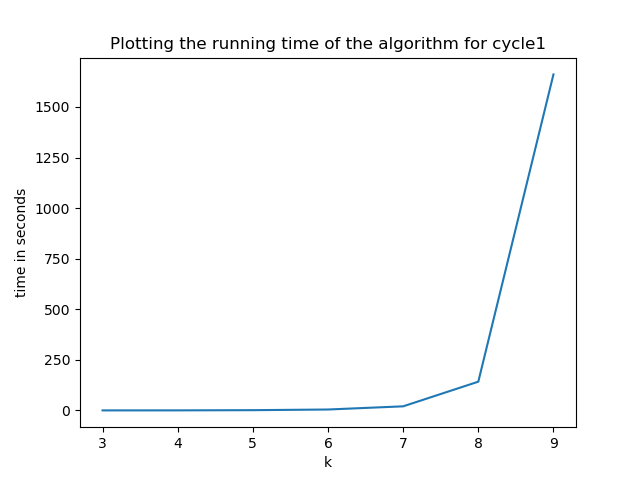
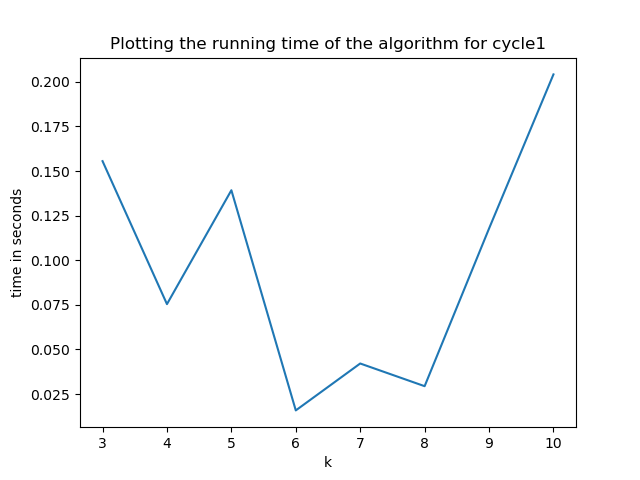
added severel plots of tests for different algorithms on graphs from the real world (yeast) and on random graphs. also added early return to cycle1 algo

diff --git a/test_random_graph_all.py b/test_random_graph_all.py
@@ -21,63 +21,62 @@ def main():
 
     n = int(sys.argv[3])
     p = eval(sys.argv[4]) if len(sys.argv) >= 5 else 1 / 2
-    G = nx.gnp_random_graph(n, p)
+    G = [nx.gnp_random_graph(n, p) for _ in range(10)]
     
     k_begin = int(sys.argv[1])
     k_end = int(sys.argv[2])
 
+    types = ["random_orientations_cycle", "cycle1", "cycle2", "cycle1_derandomized", "cycle2_derandomized", "path", "random_orientations_path", "path_derandomized"]
+    get_func = {"path" : path.find_path, "cycle1" : cycle_first_algo.find_cycle, "cycle2" : cycle_second_algo.find_cycle, "random_orientations_path" : random_orientations_path.find_path_random_orientation, "random_orientations_cycle" : random_orientations_cycle.find_cycle_random_orientation, "path_derandomized" : path_derandomized.find_path, "cycle1_derandomized" : cycle_first_algo_derandomized.find_cycle, "cycle2_derandomized" : cycle_second_algo_derandomized.find_cycle}
     # here times[i][j][k] is the time it took to find a graph of type types[j] of size k_begin + k inside the i-th random graph
-    times = []
-    types = ["path", "cycle1", "cycle2", "random_orientations_path", "random_orientations_cycle"]
-    get_func = {"path" : path.find_path, "cycle1" : cycle_first_algo.find_cycle, "cycle2" : cycle_second_algo.find_cycle, "random_orientations_path" : random_orientations_path.find_path_random_orientation, "random_orientations_cycle" : random_orientations_cycle.find_cycle_random_orientation}
-
-    for i in range(10):
-        times.append([])
-        for type in types:
-            print("The graph H we want to find is a", type)
-            times[i].append([])
-            for i in range(k_begin, k_end + 1):
-                start = timer()
-                cur_path = get_func[type](G, i)
-                end = timer()
-                print("Does G contain H with H on {} nodes? {}".format(i, cur_path))
-                print("Finding it took {:.3f} seconds\n".format(end - start))
-                times[i][-1].append(end - start)
-    
-
+    times = [[[[0] for _ in range(k_end - k_begin + 1)] for _ in range(len(types))] for _ in range(10)]
     average_times = [[0 for _ in range(k_end - k_begin + 1)] for _ in range(len(types))]
-    for i in range(len(types)):
-        for j in range(k_end - k_begin + 1):
-            for x in range(10):
-                average_times[i][j] += times[x][i][j]
-            average_times[i][j] /= 10
-    
-
     max_times = [[0 for _ in range(k_end - k_begin + 1)] for _ in range(len(types))]
-    for i in range(len(types)):
-        for j in range(k_end - k_begin + 1):
-            for x in range(10):
-                max_times[i][j] = max(max_times[i][j], times[x][i][j])
+
+    for j in range(len(types[:-3])):
+        for i in range(10):
+            print("The graph H we want to find is a", types[j])
+            for k in range(k_begin, k_end + 1):
+                start = timer()
+                cur_path = get_func[types[j]](G[i], k)
+                end = timer()
+                print("Does G contain H with H on {} nodes? {}".format(k, cur_path))
+                print("Finding it took {:.3f} seconds\n".format(end - start))
+                times[i][j][k - k_begin] = end - start
+
+                average_times[j][k - k_begin] += times[i][j][k - k_begin]
+                max_times[j][k - k_begin] = max(max_times[j][k - k_begin], times[i][j][k - k_begin])
+                # we save plots inbetween because derandomized algorithms are miuch slower and sometimes the process is killed in the middle of the run
+                if (types[j].find("derandomized") != -1):
+                    plt.xlabel("k")
+                    plt.locator_params(axis="x", nbins = k_end - k_begin + 1)
+                    plt.ylabel("time in seconds")
+                    plt.title("average & max runtime for {} on 10 random graphs".format(types[j]))
+                    plt.plot(list(range(k_begin, k_end + 1)), [x / (i + 1) for x in average_times[j]])
+                    plt.plot(list(range(k_begin, k_end + 1)), max_times[j])
+                    plt.savefig("plots/random/random_{}_{}_graphs_{}_{}_to_{}.png".format(n, p, types[j], k_begin, k_end))
+                    plt.clf()
+
+        
+        for k in range(k_end - k_begin + 1):
+            average_times[j][k] /= 10
 
 
-    for i in range(len(types)):
         plt.xlabel("k")
         plt.locator_params(axis="x", nbins = k_end - k_begin + 1)
         plt.ylabel("time in seconds")
-        plt.yscale("log")
-        plt.title("Plotting the average and max running time of the algorithm for {} on 10 random graphs".format(type))
-        plt.plot(list(range(k_begin, k_end + 1)), average_times[i])
-        plt.plot(list(range(k_begin, k_end + 1)), max_times[i])
-        plt.savefig("random_{}_{}_graphs_{}_{}_to_{}.csv".format(n, p, types[i], k_begin, k_end), "w")
+        plt.title("average & max runtime for {} on 10 random graphs".format(types[j]))
+        plt.plot(list(range(k_begin, k_end + 1)), average_times[j])
+        plt.plot(list(range(k_begin, k_end + 1)), max_times[j])
+        plt.savefig("plots/random/random_{}_{}_graphs_{}_{}_to_{}.png".format(n, p, types[j], k_begin, k_end))
         plt.clf()
     
-    f = open("random_{}_{}_graphs_{}_{}_to_{}.csv".format(n, p, type, k_begin, k_end), "w")
-    for i in range(len(types)):
-        t = str(average_times[i])
-        f.write("{}, average, {}\n".format(i, t[1:-1]))
-        t = str(max_times[i])
-        f.write("{}, max, {}\n".format(i, t[1:-1]))
-    f.close()
+        f = open("random_{}_{}_graphs_{}_{}_to_{}.csv".format(n, p, type, k_begin, k_end), "w")
+        t = str(average_times[j])
+        f.write("{}, average, {}\n".format(types[j], t[1:-1]))
+        t = str(max_times[j])
+        f.write("{}, max, {}\n".format(types[j], t[1:-1]))
+        f.close()
 
 
 if (__name__ == "__main__"):

diff --git a/random_orientations_path.py b/random_orientations_path.py
@@ -115,6 +115,7 @@ def find_path_random_orientation(G: nx.graph.Graph, k: int) -> []:
         path = longest_directed_path(G_directed, pi, n)
         if (len(path) >= k):
             if (test_path_length_k(G, path, k)):
+                print("found after {} tries".format(_ + 1))
                 return path[:k]
             else:
                 print("ERROR: found wrong path: {}".format(path))

diff --git a/cycle_first_algo.py b/cycle_first_algo.py
@@ -59,6 +59,9 @@ def find_paths(G: nx.graph.Graph, k: int, start_vertex: int) -> [()]:
         cur_paths = find_colorful_paths_from_node(G, k, c, start_vertex)
         for path in cur_paths:
             paths.add(path)
+            if (G.has_edge(path[0], path[-1])):
+                return list(paths)
+
     
     return list(paths)
 
